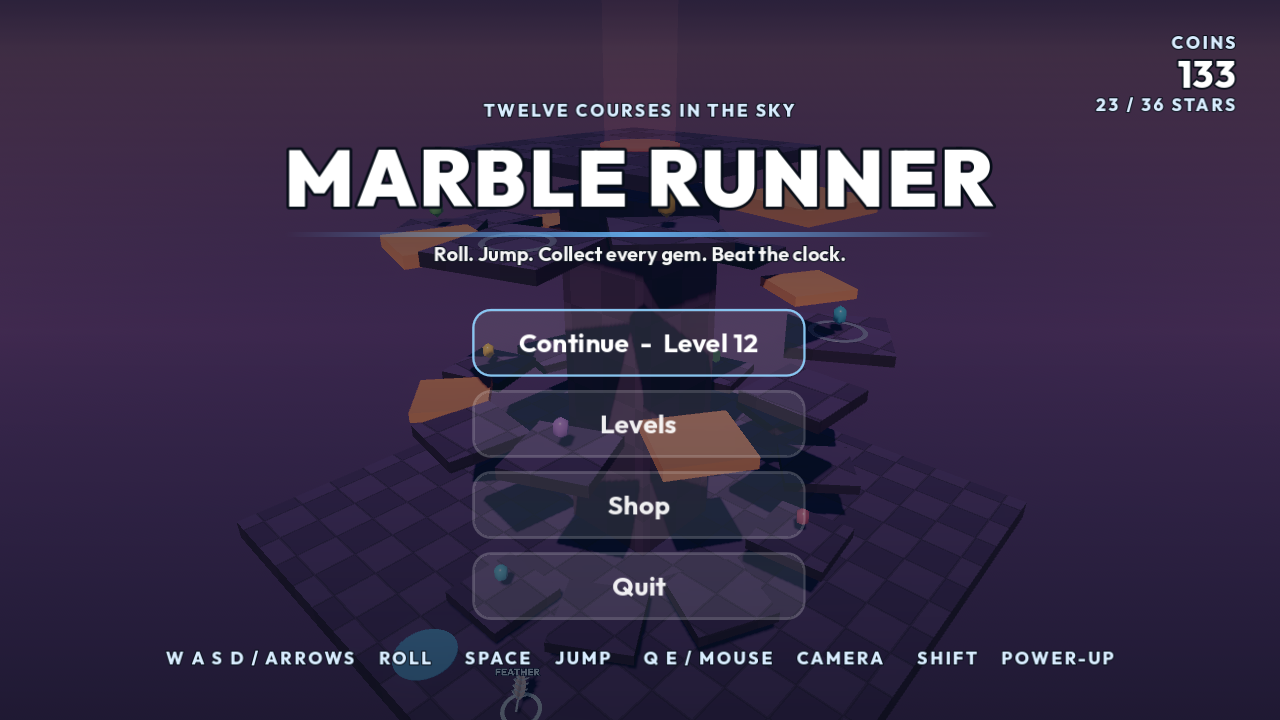
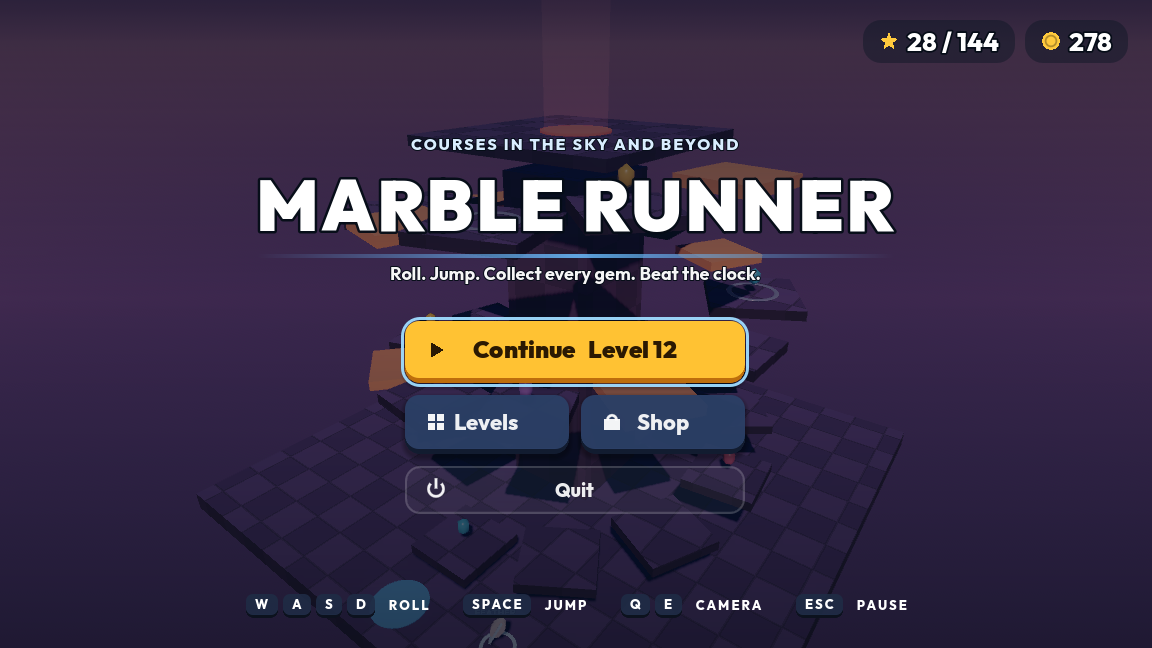
docs: describe the new courses, gimmicks, conditions and menus

diff --git a/docs/levels.md b/docs/levels.md
@@ -57,7 +57,13 @@ func build(b: LevelBuilder) -> void:
 | `bumper`, `spinner` | A post that kicks back; a bar that sweeps round a hub. |
 | `fan` | A column of rising air. The marble hovers halfway up it. |
 | `hazard` | A red block that sends the marble back to its checkpoint. |
-| `patroller`, `chaser` | Rival marbles: one on a fixed line, one that hunts inside a leash. |
+| `patroller`, `chaser`, `sentry` | Rival marbles: one on a fixed line, one that hunts inside a leash, one that stays put and fires slow shots. |
+| `conveyor` | A belt that carries the marble along its arrows, up to belt speed. |
+| `mud` | A patch of tar that drags the marble down to a crawl. |
+| `laser` | A beam that is lit, then dark, on a timer. Lit, it is a hazard. |
+| `bridge`, `button` | A slab of hard light that is only solid while a floor button wired to it is down. A button with `seconds` springs back up. A button can also put out a laser. |
+| `cannon` | Lobs the marble onto a set landing spot, whatever the gravity. |
+| `trap` | A pickup that harms: one of `PowerUps.AILMENTS`. |
 | `portal_pair` | Two linked rings. Speed passes through; each yaw is the way out. |
 | `key`, `gate` | A key is carried; a gate opens for one key. |
 | `water` | A box of water: slow sinking, drag, and jump becomes a swim stroke. |
@@ -82,11 +88,25 @@ Levels are measured against how the marble moves. With the shipped tuning:
 | In water | sinks at a fifth of normal gravity; a stroke lifts about 0.6 |
 | Leaving water | by a ramp. A stroke at the surface will not clear a ledge |
 | Moon gravity (0.35) | jump about 4 high, in the air for about 2 s |
+| Heavy gravity (1.4) | jump about 1 high; a 15 bounce pad lifts about 4 |
+| Conveyor at speed 5 | carries a resting marble at 5; rolling against it is slow but possible |
+| In tar | about a third of normal pace |
+| Laser | flickers for 0.5 s before it lights |
+| Cannon flight of 2.2 s | lands at about 11 units/s over 25 units: leave 10 of run-out |
+| Sentry shot | 7 units/s, aimed where the marble was when it fired |
 
 Change `jump_speed`, gravity or the marble's speed and these all move.
 
-A level can also set `gravity_scale` in `_init`. The moon levels use `0.35`,
-which makes a jump about 4 units high and two seconds long.
+## Level-wide conditions
+
+Set in `_init`, in force for the whole level, and named on the HUD and the
+level card (`LevelDef.conditions`):
+
+| Field | Effect |
+| --- | --- |
+| `gravity_scale` | `0.35` is the moon: a jump about 4 high and two seconds long. `1.4` is heavy: a jump about 1 high, gaps of 1.5, steps of 0.6. |
+| `wind` | A steady acceleration on the marble, e.g. `Vector3(3, 0, 0)`. Not felt under water or with grip. On ice the wind wins outright, so give a kerb or the grip power-up. Do not put a cannon in a windy level: its shot is not corrected for wind. |
+| `dark` | Night. The sun is all but out and the marble carries a lamp. Glowing things (gems, pads, beams) still show. |
 
 ## Rival marbles
 
@@ -114,6 +134,17 @@ time, up to three pickups' worth. There is no button to spend one.
 | Stopwatch | 8 s | The clock stops |
 | Shield | 12 s | Rival marbles and hazards cannot hurt |
 | Double jump | 18 s | One more jump in mid-air |
+| Grip | 14 s | Ice grips, and tar and wind do nothing |
+| Flare | 14 s | Lights a night level like day |
+
+Three more kinds are *ailments*, placed with `trap`. They use the same
+machinery but work against the player, and a shield turns them away:
+
+| Ailment | Lasts | Effect |
+| --- | --- | --- |
+| Slowed | 6 s | Under half the usual top speed |
+| Dizzy | 6 s | Steering is reversed |
+| Heavy | 7 s | Gravity up by half, jumps cut by a third |
 
 `_apply_effects` in `game.gd` sets everything a power-up changes on the marble
 from what is running now. It is derived from scratch each time rather than

diff --git a/README.md b/README.md
@@ -6,7 +6,7 @@
 
 [![License: MIT](https://img.shields.io/badge/License-MIT-3DA639?logo=opensourceinitiative&logoColor=white)](LICENSE) [![Godot](https://img.shields.io/badge/Godot-4.7-478CBF?logo=godotengine&logoColor=white)](https://godotengine.org/) [![GDScript](https://img.shields.io/badge/GDScript-2-5F3DC4?logo=godotengine&logoColor=white)](https://docs.godotengine.org/en/stable/tutorials/scripting/gdscript/index.html)
 
-**A marble platformer across twenty-four courses in the sky and beyond.**
+**A marble platformer across forty-eight levels in the sky and beyond.**
 
 Roll, jump, swim and glide a physics marble through floating levels. Collect
 every gem to open the finish, then do it again faster for the stars.
@@ -42,26 +42,33 @@ every gem to open the finish, then do it again faster for the stars.
 
 - **A marble you roll, not steer** — it is a physics body driven by torque, so
   it has real momentum: it carries speed off ramps and slides on ice.
-- **Twenty-four levels, easy to hard** — two pages of twelve. Each level
-  teaches a single idea, and the later ones put them together.
+- **Forty-eight levels, easy to hard** — four courses of twelve: Sky Courses,
+  Far Side, Night Shift and Storm Peak. Each level teaches a single idea, and
+  the later ones put them together.
 - **Gems open the finish** — every level is a collection problem as well as a
   route, and the open ones let you choose the order.
 - **Things in the way** — moving platforms, bumpers, sweeping bars, boost and
-  bounce pads, fans, ice, crumbling tiles and laser bars.
+  bounce pads, fans, ice, crumbling tiles, conveyor belts, tar, blinking laser
+  beams, cannons, and floor buttons that build bridges of hard light.
 - **Rival marbles** — red ones roll a fixed line, purple ones hunt you on
-  their own patch. Drop on one from above, or shield up, and it pops.
+  their own patch, orange ones stay put and shoot. Drop on one from above, or
+  shield up, and it pops.
 - **Portals, keys and gates** — rings that pass your speed through, and gates
   that open for one key each.
-- **Water and the moon** — pools you sink and swim in, and low-gravity levels
-  where one jump lasts two seconds.
-- **Seven power-ups** — super jump, boost, feather, magnet, stopwatch, shield
-  and double jump. They switch on as you touch them, run side by side, and
-  picking up another of the same adds its time.
+- **Worlds with weather** — pools you sink and swim in, low gravity on the
+  moon, heavy gravity in the foundry, a wind that never stops, and night
+  levels lit only by the marble. The HUD names what is in force.
+- **Nine power-ups** — super jump, boost, feather, magnet, stopwatch, shield,
+  double jump, grip and flare. They switch on as you touch them, run side by
+  side, and picking up another of the same adds its time.
+- **Traps** — pickups in a dark bubble that slow you, reverse your steering
+  or weigh you down for a few seconds. A shield soaks them up.
 - **Stars and best times** — three stars per level against gold and silver
   targets. Checkpoints mean a fall costs time, not the attempt.
 - **Coins and skins** — gems and new stars pay coins, spent on marbles in the
   shop.
-- **Six palettes** — meadow, desert, tundra, dusk, reef and moon.
+- **Ten palettes** — meadow, desert, tundra, dusk, reef, moon, night, storm,
+  foundry and canyon.
 - **Cheat codes** — typed during play, no menu. See below.
 
 ## Tech Stack

diff --git a/AGENTS.md b/AGENTS.md
@@ -1,7 +1,7 @@
 # Marble Runner
 
 A Godot marble platformer: roll, jump, swim and glide a physics marble through
-twenty-four floating levels, collect every gem, reach the finish, beat the
+forty-eight floating levels, collect every gem, reach the finish, beat the
 clock. Levels are
 short scripts, not scenes — adding one involves no editor work at all.
 
@@ -42,6 +42,10 @@ checkpoints, hazards, the finish.
 up, and about 4 units across from a short run-up. Change `jump_speed` or gravity
 and every level needs replaying.
 
+**Menus are built in code.** Every screen is assembled in its script through
+`Ui`, with drawn `Icon`s instead of font glyphs. Scene changes go through
+`SceneManager`, which fades between them.
+
 **Styling goes in the theme.** `resources/theme/marble_runner_theme.tres` is
 applied project-wide — prefer a theme type variation over a per-node font or
 colour override. Interface built in code goes through `Ui`.
@@ -77,5 +81,12 @@ Silent failures that cost real debugging time here:
   single sheet just below the rim, never a box filling the pool.
 - `Key` is a global enum (keycodes). A class named `Key` fails to parse with a
   baffling "cannot assign Key to Key". The pickup is `GateKey`.
+- A container owns its children's position and scale and takes them back
+  whenever it re-sorts. Menu animations tween only opacity on anything a
+  container lays out; things that slide sit in a plain `Control` first.
+- The marble has air damping. Anything that throws it a set distance (the
+  cannon) has to solve for it, or a two second flight lands a quarter short.
+- A light at the centre of the marble lights everything but the marble. The
+  night lamp is held above it.
 - A ball free to roll receives only 2/7 of a moving platform's acceleration
   through friction. The marble is handed the rest directly, or it is left behind.

diff --git a/docs/architecture.md b/docs/architecture.md
@@ -16,7 +16,7 @@ powerups/      The table describing each power-up
 effects/       Particle burst emitter
 world/         The tile shader, shared material helpers, biome palettes
 skins/         Marble skins and their catalogue
-ui/            HUD, results card, level select, menus, shop
+ui/            Ui helpers, drawn icons, HUD, results card, level select, menus, shop
 resources/     Biomes, the sky, skins, the UI theme
 assets/        Raw imported font and generated audio
 ```
